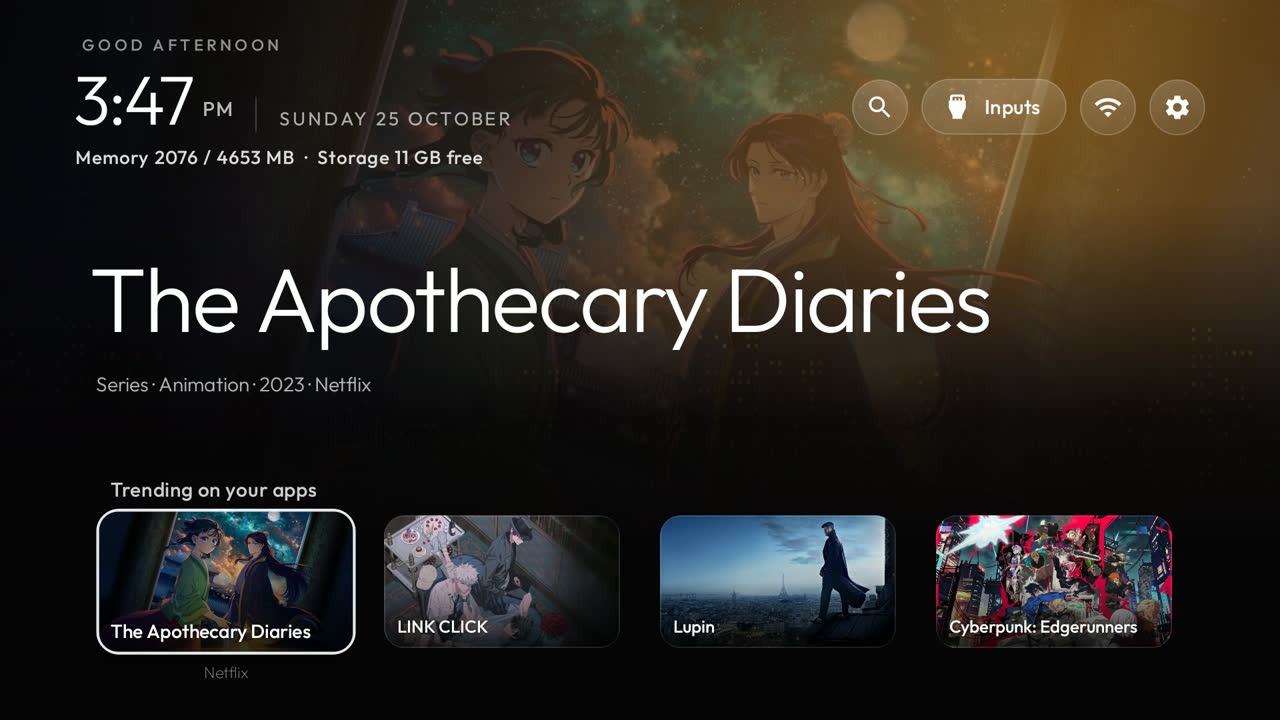
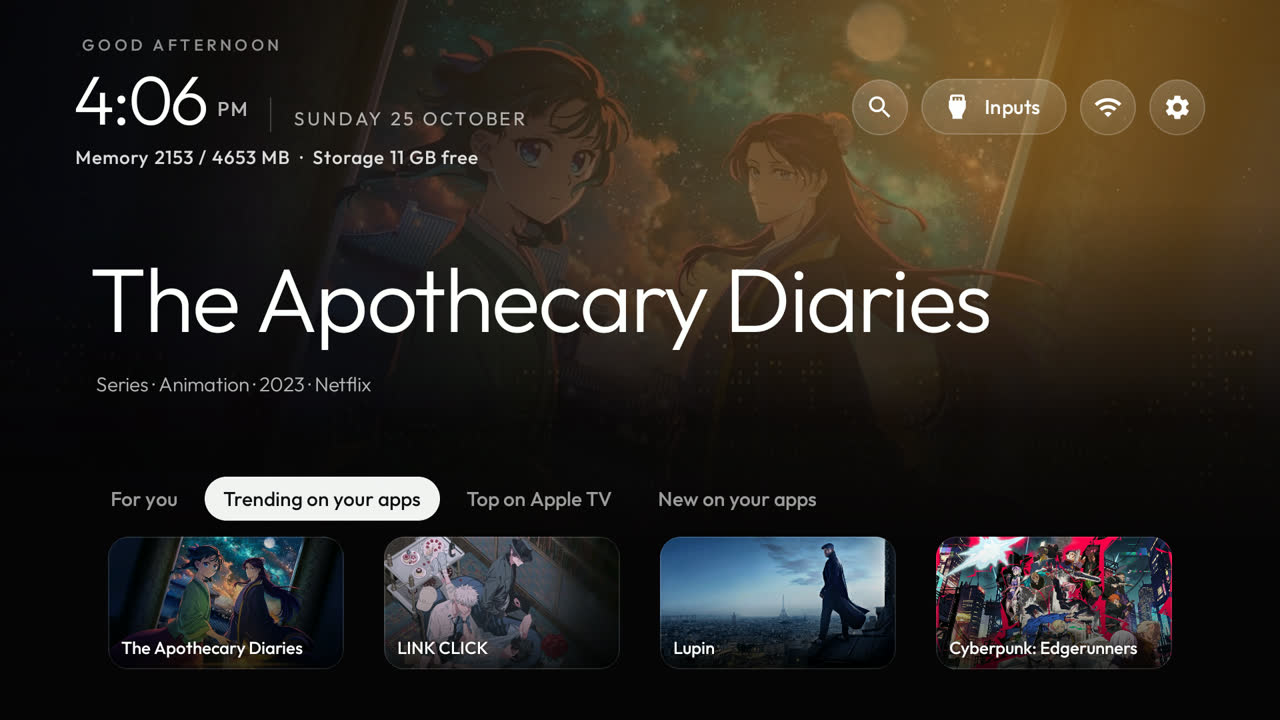
Discover: one row with tabs under the dock, so the apps stay two presses away
Four rows of posters put the grid five presses below the dock. Now the block is
a strip of tabs (For you, Trending on your apps, Top on <app>, New on your apps)
over a single row of posters: Down from the dock lands on the posters, Up on the
tabs (focusing a tab shows its posters), Up again on the dock; Down from the
posters goes into the grid. Each tab remembers its poster.

A refresh that arrives while a tab or poster has focus now waits until focus is
back on a tile (it rebuilt the tabs under the focus and dropped it to the top bar).

Changed region(s): [[0.0625, 0.6417, 0.4688, 0.9472], [0.5, 0.6722, 0.9375, 0.9472], [0.0625, 0.0917, 0.4062, 0.2444]]

diff --git a/launcher/app/src/main/java/com/gathin/tvhome/Shelf.java b/launcher/app/src/main/java/com/gathin/tvhome/Shelf.java
@@ -24,19 +24,24 @@ import java.util.List;
 import java.util.Map;
 
 /**
- * Discover's rows under the dock: one block in the app grid (AppAdapter's SHELF entry) holding a titled row of
- * posters per Discover row. Posters are as wide as the app tiles and line up with their columns; the focused poster
- * stays at the row's left edge, as on Google TV, and each row remembers where it was. Up from the first row goes back
- * to the dock and Down from the last into the grid (Listener.onShelfExit).
+ * Discover under the dock: one block in the app grid (AppAdapter's SHELF entry) with a strip of tabs, one per Discover
+ * row (For you, Trending on your apps, ...), over a single row of posters, so the apps below are only two presses
+ * from the dock. Focusing a tab shows its posters. Posters are as wide as the app tiles and line up with their
+ * columns; the focused poster stays at the row's left edge, as on Google TV, and each tab remembers where it was.
+ * Down from the dock lands on the posters; Up from them goes to the tabs, and Up again back to the dock
+ * (Listener.onShelfExit); Down from the posters goes into the grid.
  */
 final class Shelf {
 
     interface Listener {
-        /** A poster took focus; `row` is its row's view, for placing the top shelf above it. */
+        /**
+         * A poster took focus, or a tab (then `poster` is the tab and `item` the poster that tab would focus); `row`
+         * is the block's row view, for placing the top shelf above it.
+         */
         void onPosterFocused(Discover.Item item, View poster, View row);
         void onPosterClicked(Discover.Item item);
         void onPosterLongPress(Discover.Item item, View poster);
-        /** Up from the first row (up = true) or Down from the last. */
+        /** Up from the tabs (up = true) or Down from the posters. */
         void onShelfExit(boolean up);
     }
 
@@ -46,7 +51,11 @@ final class Shelf {
     private List<Discover.Row> rows = new ArrayList<>();
     /** Focused poster per row id, kept while the rows refresh. */
     private final Map<String, Integer> lastIndex = new HashMap<>();
-    private LinearLayout block;
+    /** The row (tab) shown, by id, kept while the rows refresh. */
+    private String selected;
+    private LinearLayout block, rowView, tabs;
+    private RecyclerView list;
+    private PosterAdapter adapter;
     private int tileW, tileH, cellW;
 
     Shelf(Context ctx, Listener listener, boolean animations) {
@@ -57,6 +66,11 @@ final class Shelf {
 
     boolean isEmpty() {
         return rows.isEmpty();
+    }
+
+    /** Focus is on a tab or a poster: rebuilding the block now would drop it. */
+    boolean hasFocus() {
+        return block != null && block.hasFocus();
     }
 
     void setRows(List<Discover.Row> rows) {
@@ -79,6 +93,12 @@ final class Shelf {
         return true;
     }
 
+    /** The index of the selected row: the remembered one if it is still there, else the first. */
+    static int selectedIndex(List<Discover.Row> rows, String selected) {
+        for (int i = 0; i < rows.size(); i++) if (rows.get(i).id.equals(selected)) return i;
+        return 0;
+    }
+
     /** The block's view: created once, filled whenever the rows change. */
     View create(ViewGroup parent, int tileW, int tileH, int cellW) {
         this.tileW = tileW;
@@ -96,92 +116,144 @@ final class Shelf {
 
     private void fill() {
         block.removeAllViews();
+        if (rows.isEmpty()) return;
         float d = ctx.getResources().getDisplayMetrics().density;
-        for (int r = 0; r < rows.size(); r++) {
-            Discover.Row row = rows.get(r);
-            LinearLayout rowView = new LinearLayout(ctx);
-            rowView.setOrientation(LinearLayout.VERTICAL);
-            rowView.setClipChildren(false);
-            rowView.setClipToPadding(false);
-            TextView title = new TextView(ctx);
-            title.setText(row.title);
-            title.setTextColor(0xCCFFFFFF);
-            title.setTextSize(TypedValue.COMPLEX_UNIT_SP, 15);
-            title.setTypeface(androidx.core.content.res.ResourcesCompat.getFont(ctx, R.font.outfit_medium));
-            title.setLetterSpacing(0.02f);
-            title.setPadding((cellW - tileW) / 2 + Math.round(2 * d), Math.round((r == 0 ? 10 : 18) * d), 0, Math.round(2 * d));
-            rowView.addView(title);
+        rowView = new LinearLayout(ctx);
+        rowView.setOrientation(LinearLayout.VERTICAL);
+        rowView.setClipChildren(false);
+        rowView.setClipToPadding(false);
 
-            RecyclerView list = new RecyclerView(ctx);
-            list.setClipChildren(false);
-            list.setClipToPadding(false);
-            list.setItemAnimator(null);
-            list.setHasFixedSize(true);
-            list.setLayoutManager(new LinearLayoutManager(ctx, LinearLayoutManager.HORIZONTAL, false) {
-                // Focus moves are scrolled by hand (the focused poster to the left edge), not by the default rule.
-                @Override
-                public boolean requestChildRectangleOnScreen(@NonNull RecyclerView parent, @NonNull View child,
-                                                             @NonNull Rect rect, boolean immediate, boolean focusedChildVisible) {
-                    return false;
-                }
+        tabs = new LinearLayout(ctx);
+        tabs.setOrientation(LinearLayout.HORIZONTAL);
+        tabs.setClipChildren(false);
+        tabs.setPadding((cellW - tileW) / 2 - Math.round(12 * d), Math.round(10 * d), 0, Math.round(4 * d));
+        int current = selectedIndex(rows, selected);
+        selected = rows.get(current).id;
+        for (int i = 0; i < rows.size(); i++) {
+            final int index = i;
+            TextView tab = new TextView(ctx);
+            tab.setText(rows.get(i).title);
+            tab.setTextSize(TypedValue.COMPLEX_UNIT_SP, 15);
+            tab.setTypeface(androidx.core.content.res.ResourcesCompat.getFont(ctx, R.font.outfit_medium));
+            tab.setTextColor(ctx.getColorStateList(R.color.shelf_tab_text));
+            tab.setBackgroundResource(R.drawable.shelf_tab_bg);
+            tab.setPadding(Math.round(14 * d), Math.round(7 * d), Math.round(14 * d), Math.round(7 * d));
+            tab.setFocusable(true);
+            tab.setActivated(i == current);
+            LinearLayout.LayoutParams lp = new LinearLayout.LayoutParams(ViewGroup.LayoutParams.WRAP_CONTENT,
+                    ViewGroup.LayoutParams.WRAP_CONTENT);
+            lp.setMarginEnd(Math.round(6 * d));
+            tab.setLayoutParams(lp);
+            tab.setOnFocusChangeListener((v, focused) -> {
+                if (!focused) return;
+                select(index);
+                Discover.Row row = rows.get(index);
+                int at = Math.max(0, Math.min(lastIndex.getOrDefault(row.id, 0), row.items.size() - 1));
+                if (!row.items.isEmpty()) listener.onPosterFocused(row.items.get(at), v, rowView);
             });
-            final int rowIndex = r;
-            PosterAdapter adapter = new PosterAdapter(ctx, tileW, tileH, cellW, animations, new PosterAdapter.Listener() {
-                @Override
-                public void onFocused(Discover.Item item, View poster, int position) {
-                    lastIndex.put(row.id, position);
-                    View item0 = (View) poster.getParent();
-                    int dx = item0.getLeft() - list.getPaddingLeft();
-                    if (dx != 0) {
-                        if (animations) list.smoothScrollBy(dx, 0, new DecelerateInterpolator(1.6f));
-                        else list.scrollBy(dx, 0);
-                    }
-                    listener.onPosterFocused(item, poster, rowView);
+            tab.setOnKeyListener((v, keyCode, event) -> {
+                if (event.getAction() != KeyEvent.ACTION_DOWN) return false;
+                if (keyCode == KeyEvent.KEYCODE_DPAD_UP) {
+                    listener.onShelfExit(true);
+                    return true;
                 }
-
-                @Override
-                public void onClicked(Discover.Item item) {
-                    listener.onPosterClicked(item);
+                if (keyCode == KeyEvent.KEYCODE_DPAD_DOWN) {
+                    focusPosters();
+                    return true;
                 }
-
-                @Override
-                public void onLongPress(Discover.Item item, View poster) {
-                    listener.onPosterLongPress(item, poster);
-                }
-
-                @Override
-                public boolean onKey(int position, int keyCode) {
-                    if (keyCode == KeyEvent.KEYCODE_DPAD_UP) {
-                        if (rowIndex == 0) listener.onShelfExit(true);
-                        else focusRow(rowIndex - 1);
-                        return true;
-                    }
-                    if (keyCode == KeyEvent.KEYCODE_DPAD_DOWN) {
-                        if (rowIndex == rows.size() - 1) listener.onShelfExit(false);
-                        else focusRow(rowIndex + 1);
-                        return true;
-                    }
-                    // The row's ends: nothing past them (the default focus search would leave the row).
-                    if (keyCode == KeyEvent.KEYCODE_DPAD_LEFT) return position == 0;
-                    return keyCode == KeyEvent.KEYCODE_DPAD_RIGHT && position == row.items.size() - 1;
-                }
+                if (keyCode == KeyEvent.KEYCODE_DPAD_LEFT) return index == 0;
+                return keyCode == KeyEvent.KEYCODE_DPAD_RIGHT && index == rows.size() - 1;
             });
-            adapter.setItems(row.items);
-            list.setAdapter(adapter);
-            list.setLayoutParams(new LinearLayout.LayoutParams(ViewGroup.LayoutParams.MATCH_PARENT,
-                    PosterAdapter.itemHeight(tileH, d)));
-            Integer at = lastIndex.get(row.id);
-            if (at != null && at > 0 && at < row.items.size()) ((LinearLayoutManager) list.getLayoutManager()).scrollToPositionWithOffset(at, 0);
-            rowView.addView(list);
-            block.addView(rowView);
+            tab.setOnClickListener(v -> focusPosters());
+            tabs.addView(tab);
         }
+        rowView.addView(tabs);
+
+        list = new RecyclerView(ctx);
+        list.setClipChildren(false);
+        list.setClipToPadding(false);
+        list.setItemAnimator(null);
+        list.setHasFixedSize(true);
+        list.setLayoutManager(new LinearLayoutManager(ctx, LinearLayoutManager.HORIZONTAL, false) {
+            // Focus moves are scrolled by hand (the focused poster to the left edge), not by the default rule.
+            @Override
+            public boolean requestChildRectangleOnScreen(@NonNull RecyclerView parent, @NonNull View child,
+                                                         @NonNull Rect rect, boolean immediate, boolean focusedChildVisible) {
+                return false;
+            }
+        });
+        adapter = new PosterAdapter(ctx, tileW, tileH, cellW, animations, new PosterAdapter.Listener() {
+            @Override
+            public void onFocused(Discover.Item item, View poster, int position) {
+                lastIndex.put(selected, position);
+                View item0 = (View) poster.getParent();
+                int dx = item0.getLeft() - list.getPaddingLeft();
+                if (dx != 0) {
+                    if (animations) list.smoothScrollBy(dx, 0, new DecelerateInterpolator(1.6f));
+                    else list.scrollBy(dx, 0);
+                }
+                listener.onPosterFocused(item, poster, rowView);
+            }
+
+            @Override
+            public void onClicked(Discover.Item item) {
+                listener.onPosterClicked(item);
+            }
+
+            @Override
+            public void onLongPress(Discover.Item item, View poster) {
+                listener.onPosterLongPress(item, poster);
+            }
+
+            @Override
+            public boolean onKey(int position, int keyCode) {
+                if (keyCode == KeyEvent.KEYCODE_DPAD_UP) {
+                    focusTab();
+                    return true;
+                }
+                if (keyCode == KeyEvent.KEYCODE_DPAD_DOWN) {
+                    listener.onShelfExit(false);
+                    return true;
+                }
+                // The row's ends: nothing past them (the default focus search would leave the row).
+                if (keyCode == KeyEvent.KEYCODE_DPAD_LEFT) return position == 0;
+                return keyCode == KeyEvent.KEYCODE_DPAD_RIGHT && position == adapter.getItemCount() - 1;
+            }
+        });
+        list.setAdapter(adapter);
+        list.setLayoutParams(new LinearLayout.LayoutParams(ViewGroup.LayoutParams.MATCH_PARENT,
+                PosterAdapter.itemHeight(tileH, d)));
+        rowView.addView(list);
+        block.addView(rowView);
+        show(current);
     }
 
-    /** Focuses a row's remembered poster (the first, for a row not visited yet). */
-    void focusRow(int index) {
-        if (block == null || index < 0 || index >= block.getChildCount()) return;
+    /** Shows a tab's posters, scrolled to where that tab was left. */
+    private void select(int index) {
+        if (index < 0 || index >= rows.size()) return;
+        String id = rows.get(index).id;
+        if (id.equals(selected) && adapter.getItemCount() > 0) return;
+        selected = id;
+        for (int i = 0; i < tabs.getChildCount(); i++) tabs.getChildAt(i).setActivated(i == index);
+        show(index);
+    }
+
+    private void show(int index) {
         Discover.Row row = rows.get(index);
-        RecyclerView list = (RecyclerView) ((ViewGroup) block.getChildAt(index)).getChildAt(1);
+        adapter.setItems(row.items);
+        int at = Math.max(0, Math.min(lastIndex.getOrDefault(row.id, 0), row.items.size() - 1));
+        ((LinearLayoutManager) list.getLayoutManager()).scrollToPositionWithOffset(at, 0);
+    }
+
+    private void focusTab() {
+        if (tabs == null) return;
+        tabs.getChildAt(selectedIndex(rows, selected)).requestFocus();
+    }
+
+    /** Focuses the selected tab's remembered poster. */
+    private void focusPosters() {
+        if (list == null || rows.isEmpty()) return;
+        Discover.Row row = rows.get(selectedIndex(rows, selected));
         int at = Math.max(0, Math.min(lastIndex.getOrDefault(row.id, 0), row.items.size() - 1));
         RecyclerView.ViewHolder vh = list.findViewHolderForAdapterPosition(at);
         if (vh != null) {
@@ -195,24 +267,13 @@ final class Shelf {
         });
     }
 
-    int rowCount() {
-        return rows.size();
+    /** Focus into the block: its posters (the block has one row; `index` is kept for the callers). */
+    void focusRow(int index) {
+        focusPosters();
     }
 
-    /**
-     * The rows above `index` fade out, so the focused row's title has the room above it (the dock fades the same
-     * way); -1 shows every row again, for when focus leaves the rows.
-     */
-    void showFrom(int index) {
-        if (block == null) return;
-        for (int i = 0; i < block.getChildCount(); i++) {
-            View row = block.getChildAt(i);
-            float target = index >= 0 && i < index ? 0f : 1f;
-            if (row.getAlpha() == target) continue;
-            row.animate().cancel();
-            if (animations) row.animate().alpha(target).setDuration(220).start();
-            else row.setAlpha(target);
-        }
+    int rowCount() {
+        return rows.isEmpty() ? 0 : 1;
     }
 
     /** Posters: Discover titles, or (in search) apps. Sized like the app tiles. */

diff --git a/launcher/app/src/main/java/com/gathin/tvhome/MainActivity.java b/launcher/app/src/main/java/com/gathin/tvhome/MainActivity.java
@@ -1637,7 +1637,6 @@ public class MainActivity extends Activity implements AppAdapter.TileListener {
     public void onTileFocused(int position, View card) {
         shelfFocusRow = -1;
         fadeDock(false);
-        if (shelf != null) shelf.showFrom(-1);
         if (pendingShelfRows != null) {
             List<Discover.Row> rows = pendingShelfRows;
             pendingShelfRows = null;
@@ -2054,9 +2053,8 @@ public class MainActivity extends Activity implements AppAdapter.TileListener {
         if (!discoverOn) return;
         discover.rows(rows -> {
             if (isDestroyed() || shelf.same(rows)) return;
-            // Rebuilding the rows under a focused poster would drop the focus: wait until it is back on a tile.
-            View focus = getCurrentFocus();
-            if (focus != null && focus.getId() == R.id.poster) {
+            // Rebuilding the rows under a focused tab or poster would drop the focus: wait until it is back on a tile.
+            if (shelf.hasFocus()) {
                 pendingShelfRows = rows;
                 return;
             }
@@ -2121,7 +2119,6 @@ public class MainActivity extends Activity implements AppAdapter.TileListener {
             fadeDock(true);
             ViewGroup block = (ViewGroup) row.getParent();
             shelfFocusRow = block == null ? 0 : block.indexOfChild(row);
-            shelf.showFrom(shelfFocusRow);
             // Park the focused row where the dock sits, with the title's top shelf above it, like the dock.
             Rect r = new Rect(0, 0, row.getWidth(), row.getHeight());
             grid.offsetDescendantRectToMyCoords(row, r);

diff --git a/launcher/app/src/test/java/com/gathin/tvhome/DiscoverItemTest.java b/launcher/app/src/test/java/com/gathin/tvhome/DiscoverItemTest.java
@@ -58,4 +58,12 @@ public class DiscoverItemTest {
         assertFalse(Shelf.sameRows(a, Collections.singletonList(row("trending", "tv:1", "movie:2"))));
         assertFalse(Shelf.sameRows(a, Arrays.asList(row("trending", "tv:1", "movie:2"), row("for_you", "movie:3"))));
     }
+
+    @Test
+    public void theRememberedTabSurvivesARefreshAndFallsBackToTheFirst() {
+        List<Discover.Row> rows = Arrays.asList(row("for_you", "tv:1"), row("trending", "movie:2"), row("new", "movie:3"));
+        assertEquals(1, Shelf.selectedIndex(rows, "trending"));
+        assertEquals(0, Shelf.selectedIndex(rows, "top_app"));
+        assertEquals(0, Shelf.selectedIndex(rows, null));
+    }
 }
